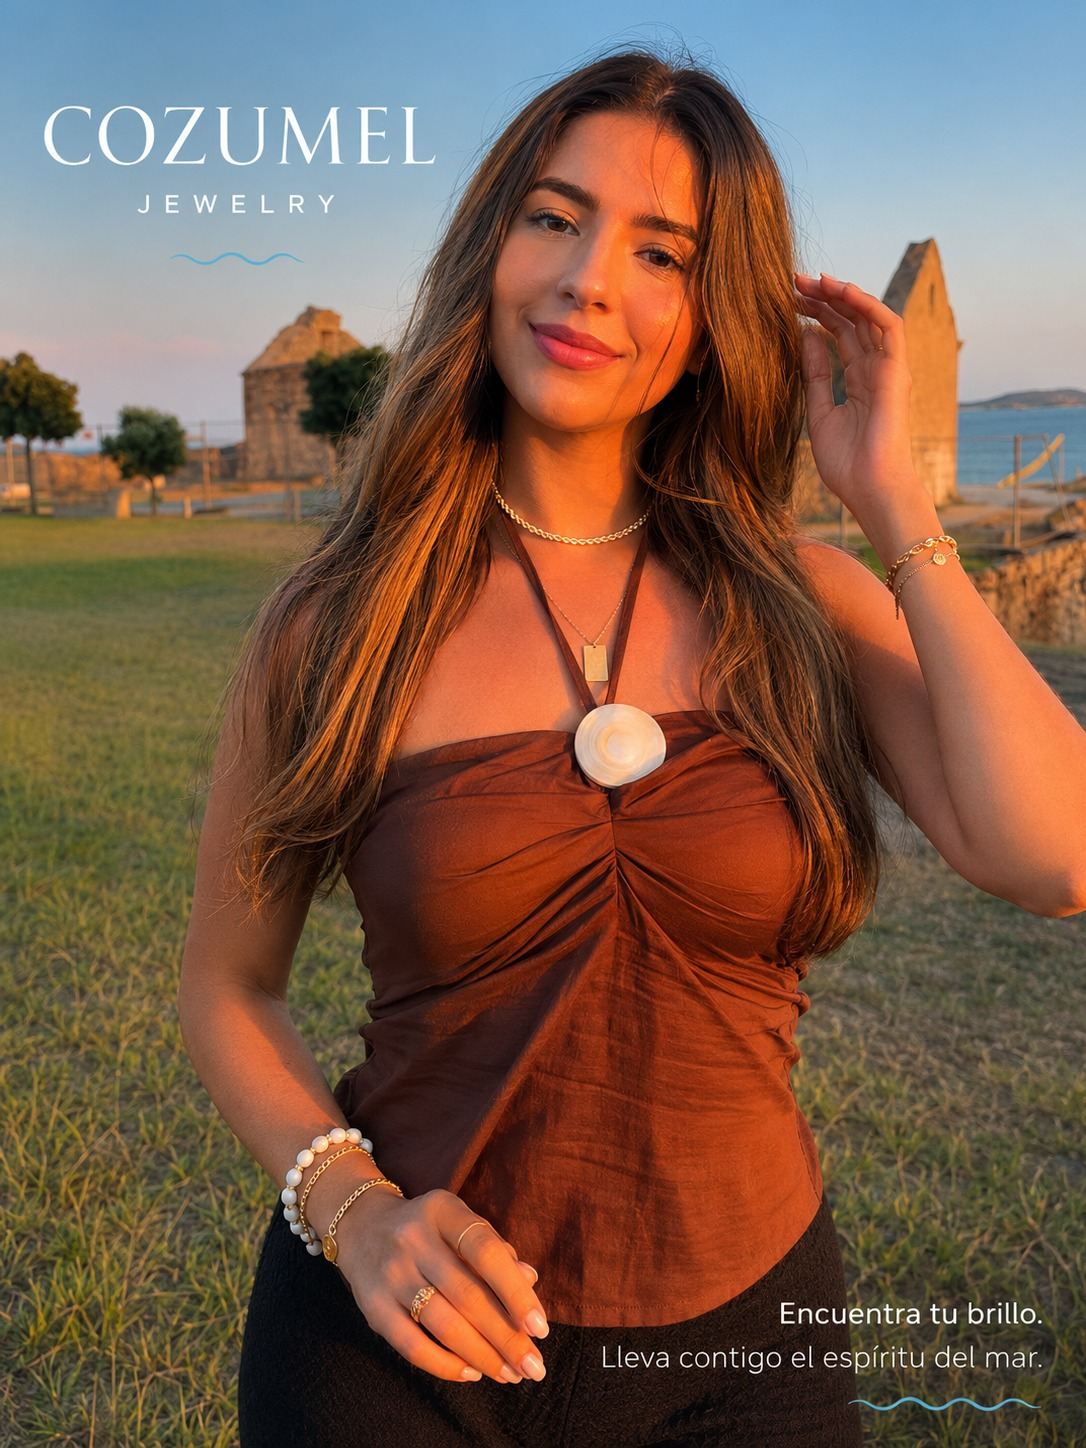
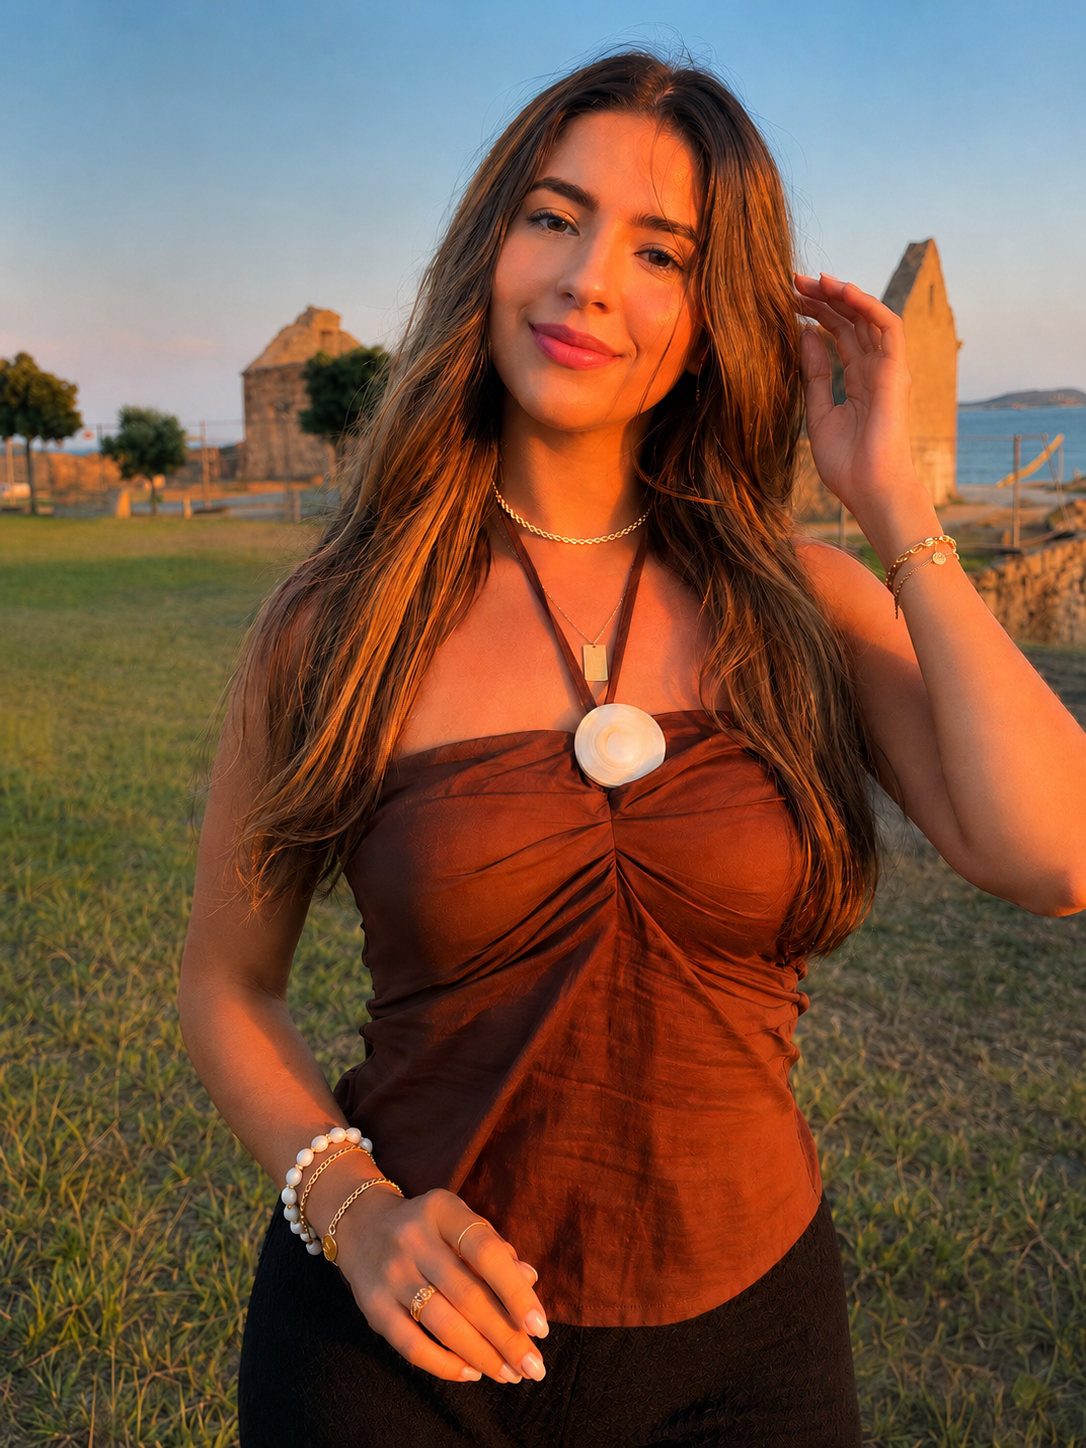
Rediseña el hero de inicio a pantalla completa, estilo editorial premium
Foto a sangre completa (cover) con velo oscuro para legibilidad,
titular más grande, CTA nuevo "Descubrir la colección", entrada con
fade suave. Sustituye la foto del hero por una sin logo ni eslogan
quemados en el JPG (riesgo 8 de ESTADO-DEL-PROYECTO.md, resuelto).
Añade .claude/launch.json para servir el sitio en local con preview_start.

diff --git a/deploy/style.css b/deploy/style.css
@@ -59,10 +59,10 @@ body{
    El contenido de la sección va en z-index:1 para quedar por encima. */
 /* Solo la seccion principal de cada pagina lleva marca de agua: si tambien
    la lleva el pie, en paginas cortas (como el inicio) se ven dos emblemas. */
-.hero-copy, .coleccion, .personalize, .historia, .reserva, .contacto{
+.coleccion, .personalize, .historia, .reserva, .contacto{
   position:relative; isolation:isolate;
 }
-.hero-copy::before, .coleccion::before, .personalize::before,
+.coleccion::before, .personalize::before,
 .historia::before, .reserva::before, .contacto::before{
   content:"";
   position:absolute; inset:0; z-index:-1; pointer-events:none;
@@ -273,52 +273,81 @@ section[id]{scroll-margin-top:var(--header-h);}
 .nav a[aria-current="page"], .footer-nav a[aria-current="page"]{color:var(--sea-dark); font-weight:600;}
 
 /* ---------- 1. HERO ---------- */
-.hero{position:relative;}
-/* La foto va como background-image con el degradado DEBAJO: si el archivo
-   todavía no existe, la imagen falla en silencio y se sigue viendo el
-   degradado — nunca un hueco roto. */
-/* La foto va como background-image con el degradado DEBAJO: si el archivo
-   todavía no existe, la imagen falla en silencio y se sigue viendo el
-   degradado — nunca un hueco roto. */
+/* ---------- 1. HERO ----------
+   Rediseño a pantalla casi completa (2026-08-29): la foto pasa a ser el
+   fondo a sangre completa (cover), con un velo oscuro para que el texto en
+   blanco/dorado se lea encima, y el titular/CTA flotan sobre ella. Antes el
+   hero era una caja con la foto "contain" (entera, sin recortar) seguida de
+   un bloque de texto sobre fondo claro debajo: ese patrón sigue vivo en
+   otras piezas del sitio (galería de producto), aquí se sustituye a
+   propósito por uno editorial de marca premium. */
+.hero{
+  position:relative; overflow:hidden;
+  display:flex; flex-direction:column; align-items:center; justify-content:flex-end;
+  min-height:88vh;
+}
 .hero-media{
-  height:80vw; max-height:400px; position:relative;
+  position:absolute; inset:0; z-index:0;
   background-image:
     url('img/hero-adriana.jpg'),
     radial-gradient(circle at 32% 22%, rgba(255,255,255,.5), transparent 55%),
     linear-gradient(160deg, #C9E6E4 0%, var(--surf) 28%, var(--sea) 62%, var(--deep) 100%);
-  /* "contain" en vez de "cover": la foto se ve ENTERA, sin recortar por
-     ningún lado. El degradado de debajo rellena lo que sobra. */
-  background-size:contain, auto, auto;
-  background-position:center center, center, center;
+  /* "cover" a propósito: la foto llena el hero de borde a borde, en
+     grande. Si el archivo todavía no existe, la imagen falla en silencio
+     y se ve el degradado marino de siempre — nunca un hueco roto. */
+  background-size:cover, auto, auto;
+  background-position:center 28%, center, center;
   background-repeat:no-repeat;
+  animation:heroMediaFade 1.4s ease-out both;
 }
-/* Marco azul claro difuminado sobre la foto: se funde hacia dentro por
-   los cuatro lados, sin recortar la imagen. */
+/* Velo oscuro: más denso abajo (donde vive el texto), casi transparente
+   arriba (para que la foto respire). */
 .hero-media::after{
   content:""; position:absolute; inset:0; pointer-events:none;
-  background:
-    linear-gradient(to right,  rgba(242,248,248,.85) 0%, rgba(242,248,248,.2) 2%, transparent 5%),
-    linear-gradient(to left,   rgba(242,248,248,.85) 0%, rgba(242,248,248,.2) 2%, transparent 5%),
-    linear-gradient(to bottom, rgba(242,248,248,.85) 0%, rgba(242,248,248,.2) 1.5%, transparent 4%),
-    linear-gradient(to top,    rgba(242,248,248,.85) 0%, rgba(242,248,248,.2) 1.5%, transparent 4%);
+  background:linear-gradient(to top,
+    rgba(11,46,51,.80) 0%,
+    rgba(11,46,51,.45) 32%,
+    rgba(11,46,51,.12) 60%,
+    rgba(11,46,51,.05) 100%);
 }
-.hero-copy{padding:30px 24px 34px; background:var(--foam); text-align:center;}
+.hero-copy{
+  position:relative; z-index:2;
+  padding:0 24px 64px; text-align:center;
+}
 .hero-copy h1{
-  font-family:'Playfair Display'; font-weight:900; font-size:clamp(34px,10vw,42px);
-  line-height:1.06; color:var(--deep);
+  font-family:'Playfair Display'; font-weight:900; font-size:clamp(38px,11vw,52px);
+  line-height:1.05; color:var(--foam);
+  animation:heroRise .9s ease-out .35s both;
 }
 .hero-copy h1 em{
-  font-style:italic; font-weight:500; color:var(--sea-dark);
+  font-style:italic; font-weight:500; color:var(--gold);
 }
 .hero-sub{
-  margin:16px auto 0; max-width:34ch; font-size:15px; color:var(--ink);
+  margin:18px auto 0; max-width:32ch; font-size:15px; color:rgba(242,248,248,.88);
+  animation:heroRise .9s ease-out .58s both;
 }
-.hero-copy .btn{margin-top:22px;}
+.hero-copy .btn{margin-top:26px;}
+.hero-cta{
+  animation:heroRise .9s ease-out .8s both;
+  background:transparent; color:var(--foam); border-color:rgba(242,248,248,.7);
+  transition:background .25s, color .25s, border-color .25s;
+}
+.hero-cta:hover{background:var(--foam); color:var(--deep); border-color:var(--foam);}
 /* Línea puente entre el hero y el resto: mismo registro editorial que el
    titular en cursiva, pero más pequeña para no competir con él. */
 .hero-puente{
-  margin:20px auto 0; font-family:'Playfair Display'; font-style:italic;
-  font-size:15.5px; color:var(--sea-dark); max-width:32ch;
+  margin:22px auto 0; font-family:'Playfair Display'; font-style:italic;
+  font-size:14.5px; color:rgba(242,248,248,.75); max-width:32ch;
+  animation:heroRise .9s ease-out 1.02s both;
+}
+@keyframes heroMediaFade{ from{opacity:0;} to{opacity:1;} }
+@keyframes heroRise{ from{opacity:0; transform:translateY(18px);} to{opacity:1; transform:translateY(0);} }
+/* Sin animación de entrada para quien pide menos movimiento: todo aparece
+   ya en su sitio, de golpe. */
+@media (prefers-reduced-motion:reduce){
+  .hero-media, .hero-copy h1, .hero-sub, .hero-cta, .hero-puente{
+    animation:none; opacity:1; transform:none;
+  }
 }
 
 /* ---------- 2. PERSONALIZACIÓN ---------- */
@@ -990,19 +1019,17 @@ footer{
   /* Aire entre la barra superior y el contenido, en TODAS las páginas.
      El contenido principal se centra en el alto de la pantalla en vez de
      quedar pegado al menú. */
-  .hero, .coleccion, .personalize, .historia, .reserva, .contacto{
+  .coleccion, .personalize, .historia, .reserva, .contacto{
     margin-top:56px;
   }
-  .hero{min-height:calc(100vh - var(--header-h) - 112px);}
 
-  /* 1. HERO */
-  .hero{display:grid; grid-template-columns:1fr 1fr; align-items:center;}
-  .hero-media{height:100%; min-height:520px; max-height:none;}
-  .hero-copy{
-    text-align:center; display:flex; flex-direction:column; justify-content:center;
-    padding:0 70px; align-items:center;
-  }
-  .hero-copy h1{font-size:clamp(42px,4.4vw,64px);}
+  /* 1. HERO: a pantalla casi completa también en escritorio, mismo
+     hero de fondo a sangre completa que en móvil, solo cambia el tamaño
+     del texto y el aire lateral. */
+  .hero{margin-top:56px; min-height:92vh;}
+  .hero-copy{padding:0 70px 96px; max-width:760px;}
+  .hero-copy h1{font-size:clamp(56px,6.2vw,92px);}
+  .hero-sub{font-size:17px; max-width:42ch;}
 
   /* PÁGINA DE PRODUCTO */
   .producto-cabecera{padding:70px 90px 10px;}

diff --git a/style.css b/style.css
@@ -59,10 +59,10 @@ body{
    El contenido de la sección va en z-index:1 para quedar por encima. */
 /* Solo la seccion principal de cada pagina lleva marca de agua: si tambien
    la lleva el pie, en paginas cortas (como el inicio) se ven dos emblemas. */
-.hero-copy, .coleccion, .personalize, .historia, .reserva, .contacto{
+.coleccion, .personalize, .historia, .reserva, .contacto{
   position:relative; isolation:isolate;
 }
-.hero-copy::before, .coleccion::before, .personalize::before,
+.coleccion::before, .personalize::before,
 .historia::before, .reserva::before, .contacto::before{
   content:"";
   position:absolute; inset:0; z-index:-1; pointer-events:none;
@@ -273,52 +273,81 @@ section[id]{scroll-margin-top:var(--header-h);}
 .nav a[aria-current="page"], .footer-nav a[aria-current="page"]{color:var(--sea-dark); font-weight:600;}
 
 /* ---------- 1. HERO ---------- */
-.hero{position:relative;}
-/* La foto va como background-image con el degradado DEBAJO: si el archivo
-   todavía no existe, la imagen falla en silencio y se sigue viendo el
-   degradado — nunca un hueco roto. */
-/* La foto va como background-image con el degradado DEBAJO: si el archivo
-   todavía no existe, la imagen falla en silencio y se sigue viendo el
-   degradado — nunca un hueco roto. */
+/* ---------- 1. HERO ----------
+   Rediseño a pantalla casi completa (2026-08-29): la foto pasa a ser el
+   fondo a sangre completa (cover), con un velo oscuro para que el texto en
+   blanco/dorado se lea encima, y el titular/CTA flotan sobre ella. Antes el
+   hero era una caja con la foto "contain" (entera, sin recortar) seguida de
+   un bloque de texto sobre fondo claro debajo: ese patrón sigue vivo en
+   otras piezas del sitio (galería de producto), aquí se sustituye a
+   propósito por uno editorial de marca premium. */
+.hero{
+  position:relative; overflow:hidden;
+  display:flex; flex-direction:column; align-items:center; justify-content:flex-end;
+  min-height:88vh;
+}
 .hero-media{
-  height:80vw; max-height:400px; position:relative;
+  position:absolute; inset:0; z-index:0;
   background-image:
     url('img/hero-adriana.jpg'),
     radial-gradient(circle at 32% 22%, rgba(255,255,255,.5), transparent 55%),
     linear-gradient(160deg, #C9E6E4 0%, var(--surf) 28%, var(--sea) 62%, var(--deep) 100%);
-  /* "contain" en vez de "cover": la foto se ve ENTERA, sin recortar por
-     ningún lado. El degradado de debajo rellena lo que sobra. */
-  background-size:contain, auto, auto;
-  background-position:center center, center, center;
+  /* "cover" a propósito: la foto llena el hero de borde a borde, en
+     grande. Si el archivo todavía no existe, la imagen falla en silencio
+     y se ve el degradado marino de siempre — nunca un hueco roto. */
+  background-size:cover, auto, auto;
+  background-position:center 28%, center, center;
   background-repeat:no-repeat;
+  animation:heroMediaFade 1.4s ease-out both;
 }
-/* Marco azul claro difuminado sobre la foto: se funde hacia dentro por
-   los cuatro lados, sin recortar la imagen. */
+/* Velo oscuro: más denso abajo (donde vive el texto), casi transparente
+   arriba (para que la foto respire). */
 .hero-media::after{
   content:""; position:absolute; inset:0; pointer-events:none;
-  background:
-    linear-gradient(to right,  rgba(242,248,248,.85) 0%, rgba(242,248,248,.2) 2%, transparent 5%),
-    linear-gradient(to left,   rgba(242,248,248,.85) 0%, rgba(242,248,248,.2) 2%, transparent 5%),
-    linear-gradient(to bottom, rgba(242,248,248,.85) 0%, rgba(242,248,248,.2) 1.5%, transparent 4%),
-    linear-gradient(to top,    rgba(242,248,248,.85) 0%, rgba(242,248,248,.2) 1.5%, transparent 4%);
+  background:linear-gradient(to top,
+    rgba(11,46,51,.80) 0%,
+    rgba(11,46,51,.45) 32%,
+    rgba(11,46,51,.12) 60%,
+    rgba(11,46,51,.05) 100%);
 }
-.hero-copy{padding:30px 24px 34px; background:var(--foam); text-align:center;}
+.hero-copy{
+  position:relative; z-index:2;
+  padding:0 24px 64px; text-align:center;
+}
 .hero-copy h1{
-  font-family:'Playfair Display'; font-weight:900; font-size:clamp(34px,10vw,42px);
-  line-height:1.06; color:var(--deep);
+  font-family:'Playfair Display'; font-weight:900; font-size:clamp(38px,11vw,52px);
+  line-height:1.05; color:var(--foam);
+  animation:heroRise .9s ease-out .35s both;
 }
 .hero-copy h1 em{
-  font-style:italic; font-weight:500; color:var(--sea-dark);
+  font-style:italic; font-weight:500; color:var(--gold);
 }
 .hero-sub{
-  margin:16px auto 0; max-width:34ch; font-size:15px; color:var(--ink);
+  margin:18px auto 0; max-width:32ch; font-size:15px; color:rgba(242,248,248,.88);
+  animation:heroRise .9s ease-out .58s both;
 }
-.hero-copy .btn{margin-top:22px;}
+.hero-copy .btn{margin-top:26px;}
+.hero-cta{
+  animation:heroRise .9s ease-out .8s both;
+  background:transparent; color:var(--foam); border-color:rgba(242,248,248,.7);
+  transition:background .25s, color .25s, border-color .25s;
+}
+.hero-cta:hover{background:var(--foam); color:var(--deep); border-color:var(--foam);}
 /* Línea puente entre el hero y el resto: mismo registro editorial que el
    titular en cursiva, pero más pequeña para no competir con él. */
 .hero-puente{
-  margin:20px auto 0; font-family:'Playfair Display'; font-style:italic;
-  font-size:15.5px; color:var(--sea-dark); max-width:32ch;
+  margin:22px auto 0; font-family:'Playfair Display'; font-style:italic;
+  font-size:14.5px; color:rgba(242,248,248,.75); max-width:32ch;
+  animation:heroRise .9s ease-out 1.02s both;
+}
+@keyframes heroMediaFade{ from{opacity:0;} to{opacity:1;} }
+@keyframes heroRise{ from{opacity:0; transform:translateY(18px);} to{opacity:1; transform:translateY(0);} }
+/* Sin animación de entrada para quien pide menos movimiento: todo aparece
+   ya en su sitio, de golpe. */
+@media (prefers-reduced-motion:reduce){
+  .hero-media, .hero-copy h1, .hero-sub, .hero-cta, .hero-puente{
+    animation:none; opacity:1; transform:none;
+  }
 }
 
 /* ---------- 2. PERSONALIZACIÓN ---------- */
@@ -990,19 +1019,17 @@ footer{
   /* Aire entre la barra superior y el contenido, en TODAS las páginas.
      El contenido principal se centra en el alto de la pantalla en vez de
      quedar pegado al menú. */
-  .hero, .coleccion, .personalize, .historia, .reserva, .contacto{
+  .coleccion, .personalize, .historia, .reserva, .contacto{
     margin-top:56px;
   }
-  .hero{min-height:calc(100vh - var(--header-h) - 112px);}
 
-  /* 1. HERO */
-  .hero{display:grid; grid-template-columns:1fr 1fr; align-items:center;}
-  .hero-media{height:100%; min-height:520px; max-height:none;}
-  .hero-copy{
-    text-align:center; display:flex; flex-direction:column; justify-content:center;
-    padding:0 70px; align-items:center;
-  }
-  .hero-copy h1{font-size:clamp(42px,4.4vw,64px);}
+  /* 1. HERO: a pantalla casi completa también en escritorio, mismo
+     hero de fondo a sangre completa que en móvil, solo cambia el tamaño
+     del texto y el aire lateral. */
+  .hero{margin-top:56px; min-height:92vh;}
+  .hero-copy{padding:0 70px 96px; max-width:760px;}
+  .hero-copy h1{font-size:clamp(56px,6.2vw,92px);}
+  .hero-sub{font-size:17px; max-width:42ch;}
 
   /* PÁGINA DE PRODUCTO */
   .producto-cabecera{padding:70px 90px 10px;}

diff --git a/deploy/index.html b/deploy/index.html
@@ -88,7 +88,7 @@
     <div class="hero-copy">
       <h1>Regala un<br><em>pedacito de ti</em></h1>
       <p class="hero-sub">Un collar con su nombre, su fecha o tu mensaje, grabado a mano, para que siempre lleven un pedacito de ti</p>
-      <a class="btn btn-primary" href="productos.html">Ver la colección</a>
+      <a class="btn btn-primary hero-cta" href="productos.html">Descubrir la colección →</a>
       <p class="hero-puente">Porque somos un pedacito de lo que regalamos</p>
     </div>
   </section>

diff --git a/index.html b/index.html
@@ -88,7 +88,7 @@
     <div class="hero-copy">
       <h1>Regala un<br><em>pedacito de ti</em></h1>
       <p class="hero-sub">Un collar con su nombre, su fecha o tu mensaje, grabado a mano, para que siempre lleven un pedacito de ti</p>
-      <a class="btn btn-primary" href="productos.html">Ver la colección</a>
+      <a class="btn btn-primary hero-cta" href="productos.html">Descubrir la colección →</a>
       <p class="hero-puente">Porque somos un pedacito de lo que regalamos</p>
     </div>
   </section>
